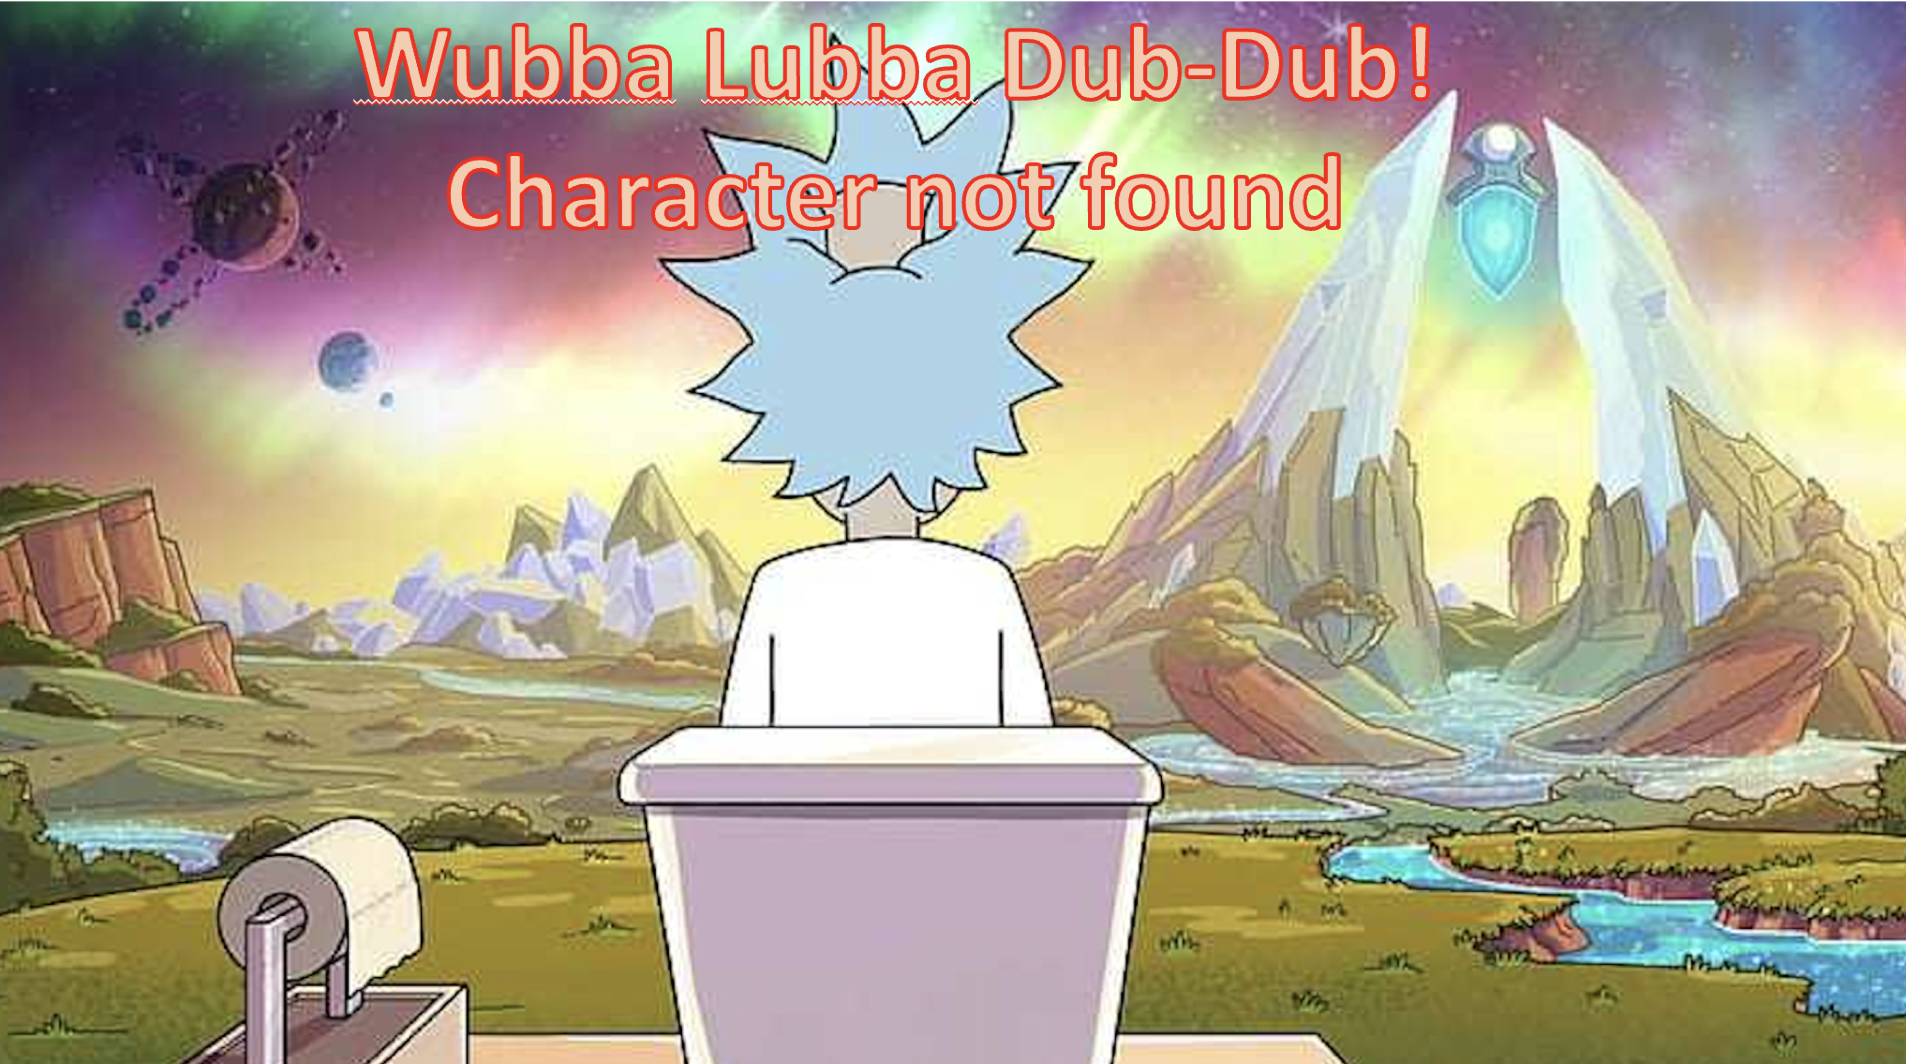
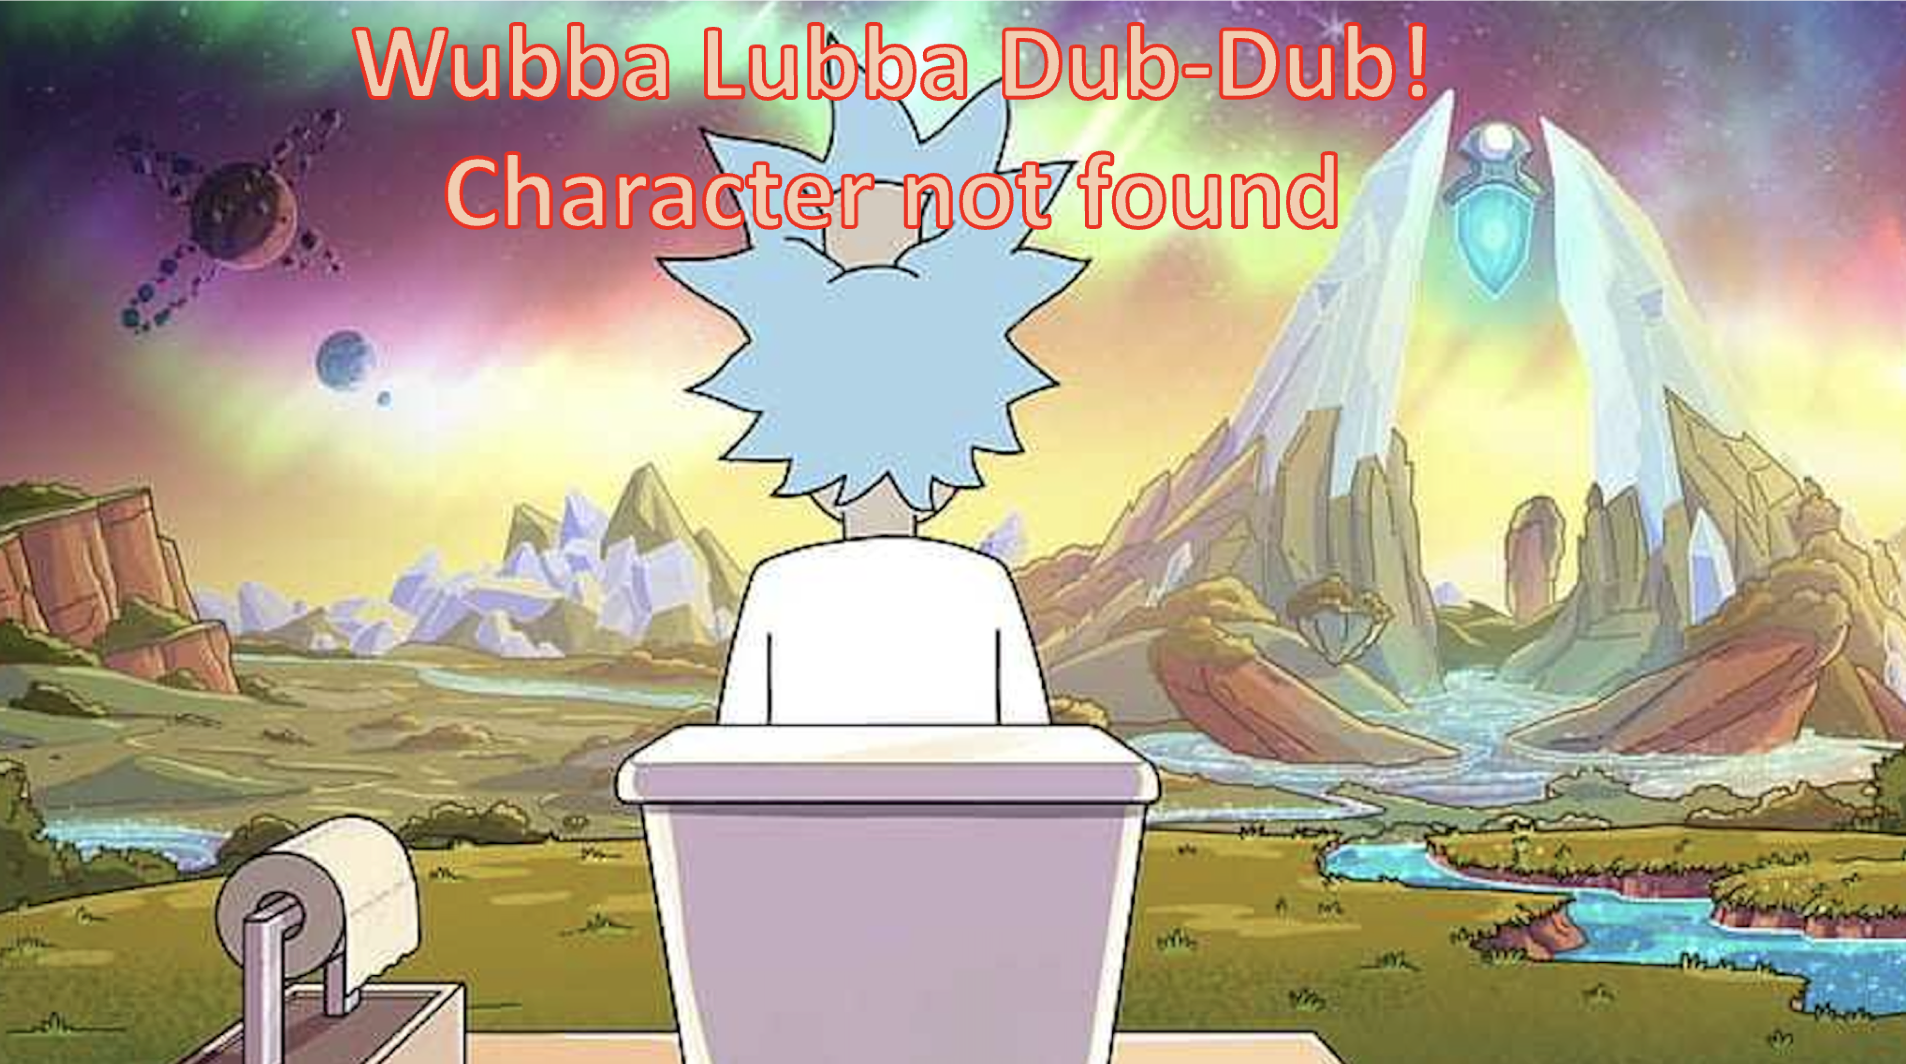
added error pic

diff --git a/index.js b/index.js
@@ -93,7 +93,7 @@ export async function fetchData(page, urlSpecifier) {
     const response = await fetch(url);
 
       if (!response.ok) {
-      cardContainer.innerHTML = `<img src="assets/not-found-img.jpeg" alt="entries not found"></img>`;
+      cardContainer.innerHTML = `<img id="error-img" src="assets/not-found-img.jpeg" alt="entries not found" ></img>`;
       // cardContainer.innerHTML = "<strong>No such entries found or service unavaliable at the moment. Try again with different search request.</strong>";
       setPagination(1, 1);
       throw new Error("Bad response");

diff --git a/styles.css b/styles.css
@@ -47,3 +47,7 @@ main {
   align-self: flex-start;
   
 }
+
+#error-img {
+  width: 50vw;
+}
